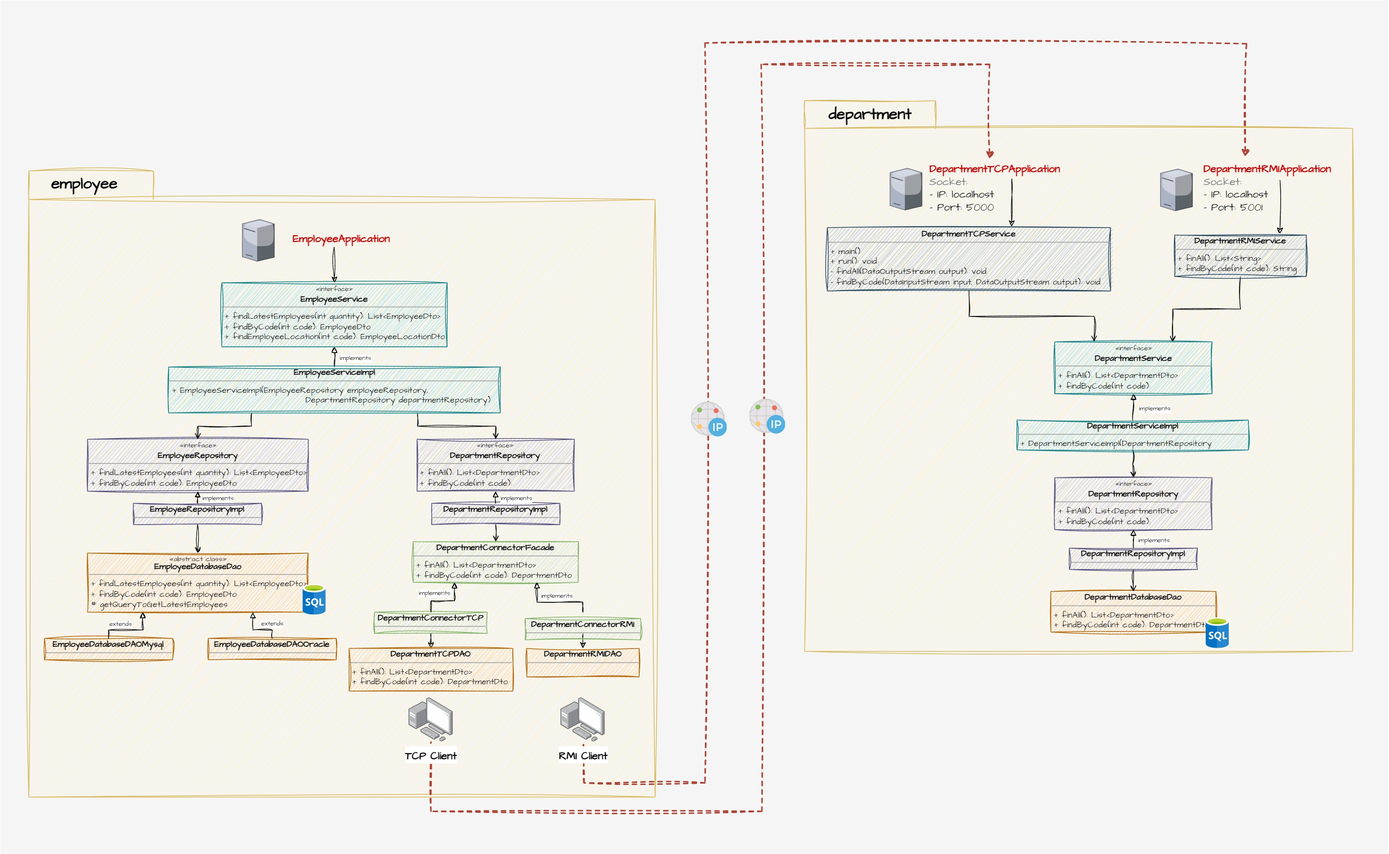
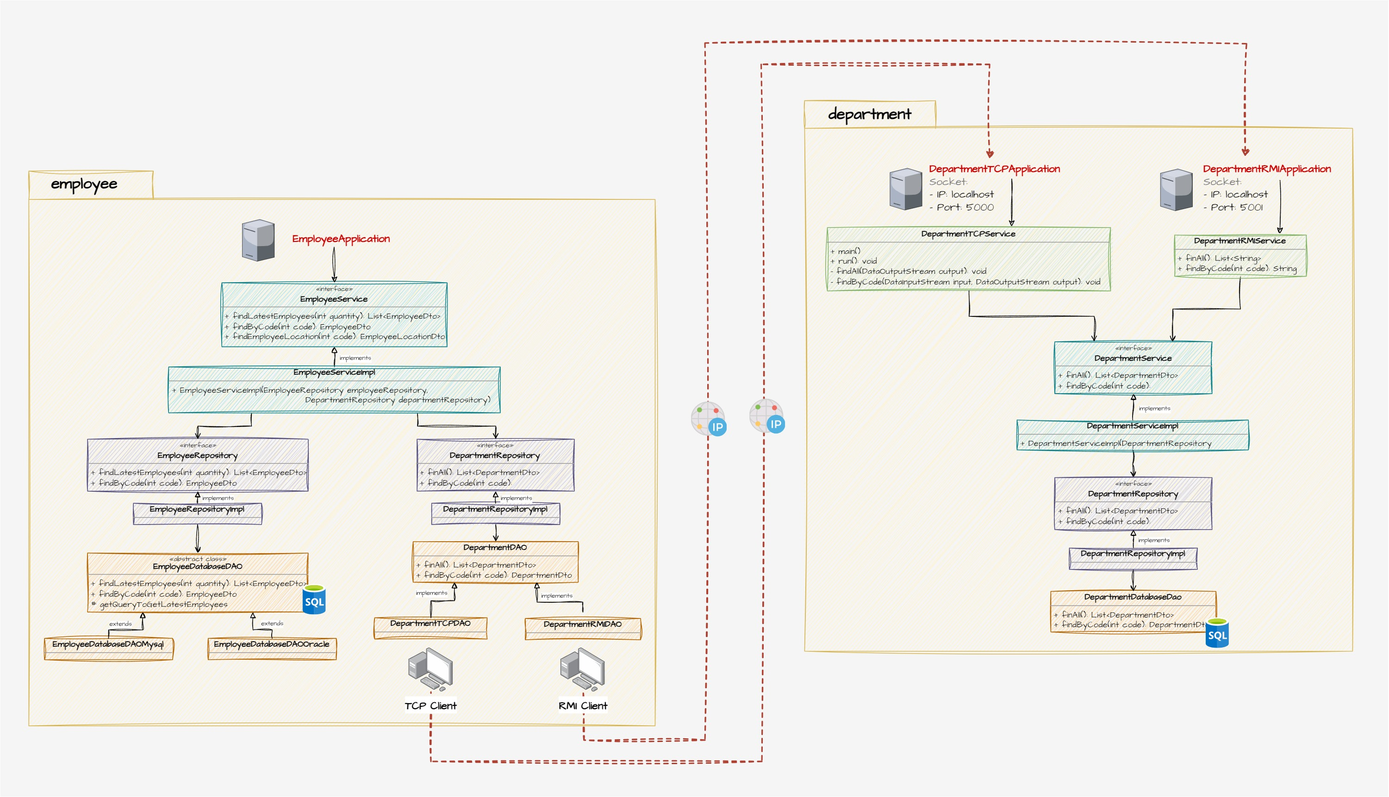
Fix database connection, print logs and Reamde

diff --git a/src/main/java/com/demo/department/repository/dao/DepartmentDAO.java b/src/main/java/com/demo/department/repository/dao/DepartmentDAO.java
@@ -1,6 +1,6 @@
 package com.demo.department.repository.dao;
 
-import com.demo.commons.database.config.DatabaseConnection;
+import com.demo.commons.database.config.MySQLConnection;
 import com.demo.department.dto.DepartmentDTO;
 import java.sql.Connection;
 import java.sql.PreparedStatement;
@@ -14,7 +14,7 @@ import java.util.List;
  * <br/>Clase DAO que permite interactuar directamente con la fuente de datos, haciendo uso de instrucciones nativas
  * SQL, NOSQL u otras tecnologías para acceder a la fuente de datos.<br/>
  */
-public class DepartmentDatabaseDAO {
+public class DepartmentDAO {
 
   private Connection connection = null;
   private PreparedStatement statement = null;
@@ -22,7 +22,7 @@ public class DepartmentDatabaseDAO {
 
   public List<DepartmentDTO> findAll() {
     try {
-      connection = DatabaseConnection.getConnection();
+      connection = MySQLConnection.getConnection();
       connection.setAutoCommit(false); //Las transacciones en BD no se confirmarán automáticamente. A continuación, debes confirmar (commit) o deshacer (rollback) explícitamente
       statement = connection.prepareStatement("SELECT code, name, location FROM departments ");
       result = statement.executeQuery();
@@ -48,7 +48,7 @@ public class DepartmentDatabaseDAO {
 
   public DepartmentDTO findByCode(int code) {
     try {
-      connection = DatabaseConnection.getConnection();
+      connection = MySQLConnection.getConnection();
       connection.setAutoCommit(false);
       statement = connection.prepareStatement("SELECT code, name, location FROM departments WHERE code = ?");
       statement.setInt(1, code);

diff --git a/src/main/java/com/demo/employee/repository/employee/dao/EmployeeDAO.java b/src/main/java/com/demo/employee/repository/employee/dao/EmployeeDAO.java
@@ -1,6 +1,6 @@
 package com.demo.employee.repository.employee.dao;
 
-import com.demo.commons.database.config.DatabaseConnection;
+import com.demo.commons.database.config.MySQLConnection;
 import com.demo.employee.dto.EmployeeDTO;
 import java.sql.Connection;
 import java.sql.PreparedStatement;
@@ -14,7 +14,7 @@ import java.util.List;
  * <br/>Clase DAO que permite interactuar directamente con la fuente de datos, haciendo uso de instrucciones nativas
  * SQL, NOSQL u otras tecnologías para acceder a la fuente de datos.<br/>
  */
-public abstract class EmployeeDatabaseDAO {
+public abstract class EmployeeDAO {
 
   protected abstract String getQueryToGetLatestEmployees();
   private Connection connection = null;
@@ -23,7 +23,7 @@ public abstract class EmployeeDatabaseDAO {
 
   public EmployeeDTO findByCode(int employeeCode) {
     try {
-      connection = DatabaseConnection.getConnection();
+      connection = MySQLConnection.getConnection();
       connection.setAutoCommit(false);
       statement = connection.prepareStatement("SELECT code, name, contract_date, department_code FROM employees WHERE code = ? ");
       statement.setInt(1, employeeCode);
@@ -50,7 +50,8 @@ public abstract class EmployeeDatabaseDAO {
 
   public List<EmployeeDTO> findLatestEmployees(int latest) {
     try {
-      connection = DatabaseConnection.getConnection();
+      connection = MySQLConnection.getConnection();
+      connection.setAutoCommit(false);
       statement = connection.prepareStatement(getQueryToGetLatestEmployees());
       statement.setInt(1, latest);
       result = statement.executeQuery();

diff --git a/src/main/java/com/demo/department/repository/DepartmentRepositoryImpl.java b/src/main/java/com/demo/department/repository/DepartmentRepositoryImpl.java
@@ -3,7 +3,7 @@ package com.demo.department.repository;
 import com.demo.commons.util.ObjectFactory;
 import com.demo.department.properties.DepartmentProperties;
 import com.demo.department.dto.DepartmentDTO;
-import com.demo.department.repository.dao.DepartmentDatabaseDAO;
+import com.demo.department.repository.dao.DepartmentDAO;
 import java.util.List;
 
 /**
@@ -14,19 +14,19 @@ import java.util.List;
  */
 public class DepartmentRepositoryImpl implements DepartmentRepository {
 
-  private final DepartmentDatabaseDAO departmentDatabaseDAO;
+  private final DepartmentDAO departmentDAO;
 
   public DepartmentRepositoryImpl() {
-    departmentDatabaseDAO = (DepartmentDatabaseDAO) ObjectFactory.build(DepartmentProperties.getDepartmentDAOClass());
+    departmentDAO = (DepartmentDAO) ObjectFactory.build(DepartmentProperties.getDepartmentDAOClass());
   }
 
   @Override
   public List<DepartmentDTO> findAll() {
-    return departmentDatabaseDAO.findAll();
+    return departmentDAO.findAll();
   }
 
   @Override
   public DepartmentDTO findByCode(int code) {
-    return departmentDatabaseDAO.findByCode(code);
+    return departmentDAO.findByCode(code);
   }
 }

diff --git a/src/main/java/com/demo/employee/repository/employee/EmployeeRepositoryImpl.java b/src/main/java/com/demo/employee/repository/employee/EmployeeRepositoryImpl.java
@@ -2,16 +2,16 @@ package com.demo.employee.repository.employee;
 
 import com.demo.commons.util.ObjectFactory;
 import com.demo.employee.properties.EmployeeProperties;
-import com.demo.employee.repository.employee.dao.EmployeeDatabaseDAO;
+import com.demo.employee.repository.employee.dao.EmployeeDAO;
 import com.demo.employee.dto.EmployeeDTO;
 import java.util.List;
 
 public class EmployeeRepositoryImpl implements EmployeeRepository {
 
-  private final EmployeeDatabaseDAO employeeDao;
+  private final EmployeeDAO employeeDao;
 
   public EmployeeRepositoryImpl() {
-    employeeDao = (EmployeeDatabaseDAO) ObjectFactory.build(EmployeeProperties.getEmployeeDAOClass());
+    employeeDao = (EmployeeDAO) ObjectFactory.build(EmployeeProperties.getEmployeeDAOClass());
   }
 
   @Override

diff --git a/src/main/java/com/demo/employee/EmployeeApplication.java b/src/main/java/com/demo/employee/EmployeeApplication.java
@@ -11,5 +11,6 @@ public class EmployeeApplication {
     EmployeeService employeeService = new EmployeeServiceImpl(new EmployeeRepositoryImpl(), new DepartmentRepositoryImpl());
     System.out.println(employeeService.findEmployeeLocation(2));
     System.out.println(employeeService.findByCode(2));
+    System.out.println(employeeService.findLatestEmployees(2));
   }
 }

diff --git a/src/main/java/com/demo/commons/database/config/MySQLConnection.java b/src/main/java/com/demo/commons/database/config/MySQLConnection.java
@@ -9,7 +9,7 @@ import java.sql.DriverManager;
  * <p>
  * <br/>Permite instanciar una única conexión a base de datos.<br/>
  */
-public class DatabaseConnection {
+public class MySQLConnection {
 
   private static final String DB_CONNECTION_FILE = "mysql-jdbc.properties";
   private static Connection instance = null;

diff --git a/src/main/java/com/demo/employee/repository/employee/dao/EmployeeOracleDAO.java b/src/main/java/com/demo/employee/repository/employee/dao/EmployeeOracleDAO.java
@@ -1,6 +1,6 @@
 package com.demo.employee.repository.employee.dao;
 
-public class EmployeeDatabaseDAOOracle extends EmployeeDatabaseDAO {
+public class EmployeeOracleDAO extends EmployeeDAO {
 
   @Override
   public String getQueryToGetLatestEmployees(){

diff --git a/src/main/java/com/demo/employee/repository/employee/dao/EmployeeMysqlDAO.java b/src/main/java/com/demo/employee/repository/employee/dao/EmployeeMysqlDAO.java
@@ -1,6 +1,6 @@
 package com.demo.employee.repository.employee.dao;
 
-public class EmployeeDatabaseDAOMysql extends EmployeeDatabaseDAO {
+public class EmployeeMysqlDAO extends EmployeeDAO {
 
   @Override
   public String getQueryToGetLatestEmployees() {

diff --git a/README.md b/README.md
@@ -1,18 +1,16 @@
-# Empleados
-Aplicación implementada en Java 7 que pone en práctica el uso de patrones de diseño, acceso a base 
-de datos con JDBC y networking con sockets.
+# Caso de estudio
+> - Aplicación implementada en Java 7 que pone en práctica patrones de diseño, acceso a base de datos y networking con sockets.
+> - Esta aplicación identifica a los empleados que pertenecientes a un departamento.
 
-# 1. Caso de estudio
-Se requiere una aplicación capaz de identificar a los empleados que pertenecen a un departamento.
-
-## Diagrama BD
+## Diagrama de base de datos
 ![Texto alternativo](./documentation/diagram-database.jpg)
 
-## Diagrama UML
+## Arquitectura cliente-servidor
 ![Texto alternativo](./documentation/diagram-uml.jpg)
 
 ## Pre requisitos
 - MySQL
+- Java 7 o superior
 
 ## Despliegue local
 - Ejecutar el script `mysql-script.sql` en MySQL para crear la base de datos y la data de prueba
